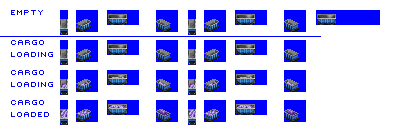
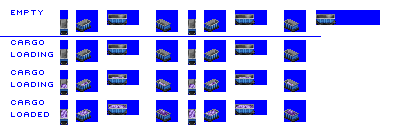
Fix: tweak various offsets

diff --git a/src/global_constants.py b/src/global_constants.py
@@ -143,8 +143,8 @@ null_trailing_slice_numeric_id = 1
 # standard offsets for trains (n.b. length < 3 isn't possible with 3-part articulated vehicles)
 default_train_offsets = {'3': [[-3, -23], [-3, -20], [6, -11], [5, -14], [-3, -12], [-14, -14], [-20, -11], [-8, -21]],
                          '4': [[-3, -21], [-4, -19], [2, -11], [3, -14], [-3, -12], [-14, -14], [-20, -11], [-8, -20]],
-                         '5': [[-3, -20], [-6, -17], [-2, -11], [1, -14], [-3, -12], [-14, -14], [-20, -11], [-8, -18]],
-                         '6': [[-3, -20], [-8, -17], [-5, -11], [-1, -13], [-3, -12], [-16, -13], [-20, -11], [-8, -18]],
+                         '5': [[-3, -20], [-6, -18], [0, -11], [1, -13], [-3, -12], [-16, -13], [-20, -11], [-8, -18]],
+                         '6': [[-3, -20], [-8, -17], [-4, -11], [-1, -13], [-3, -12], [-16, -13], [-20, -11], [-8, -18]],
                          '7': [[-3, -18], [-8, -17], [-5, -11], [-1, -12], [-3, -12], [-17, -12], [-24, -11], [-10, -18]],
                          '8': [[-3, -17], [-10, -16], [-8, -11], [-4, -13], [-3, -10], [-17, -12], [-24, -11], [-10, -17]], # needs fix
                          '9': [[-3, -12], [-14, -14], [-16, -11], [-8, -15], [-3, -12], [-14, -14], [-16, -11], [-8, -15]], # needs fix
